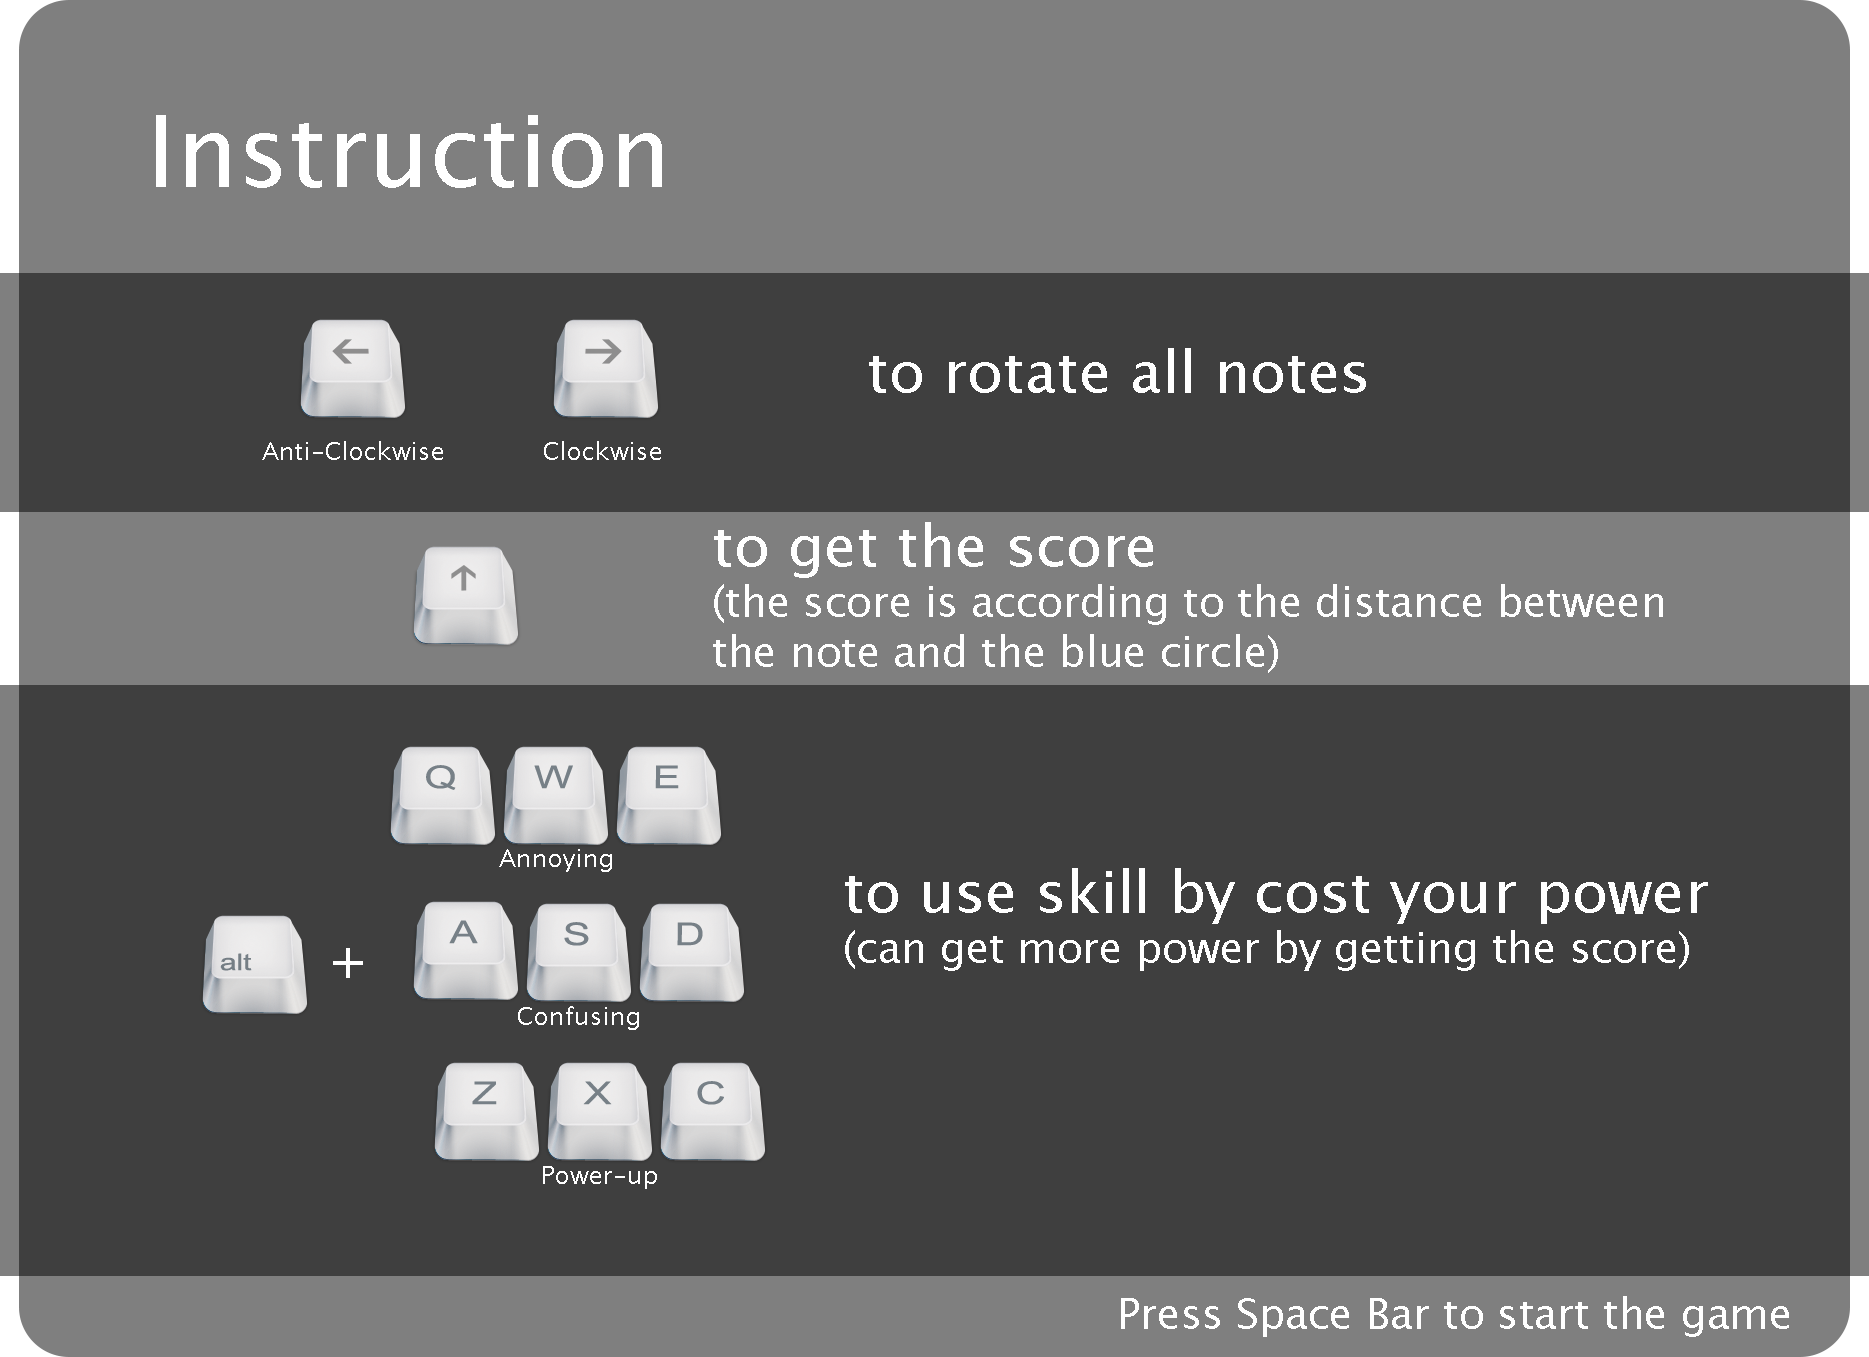
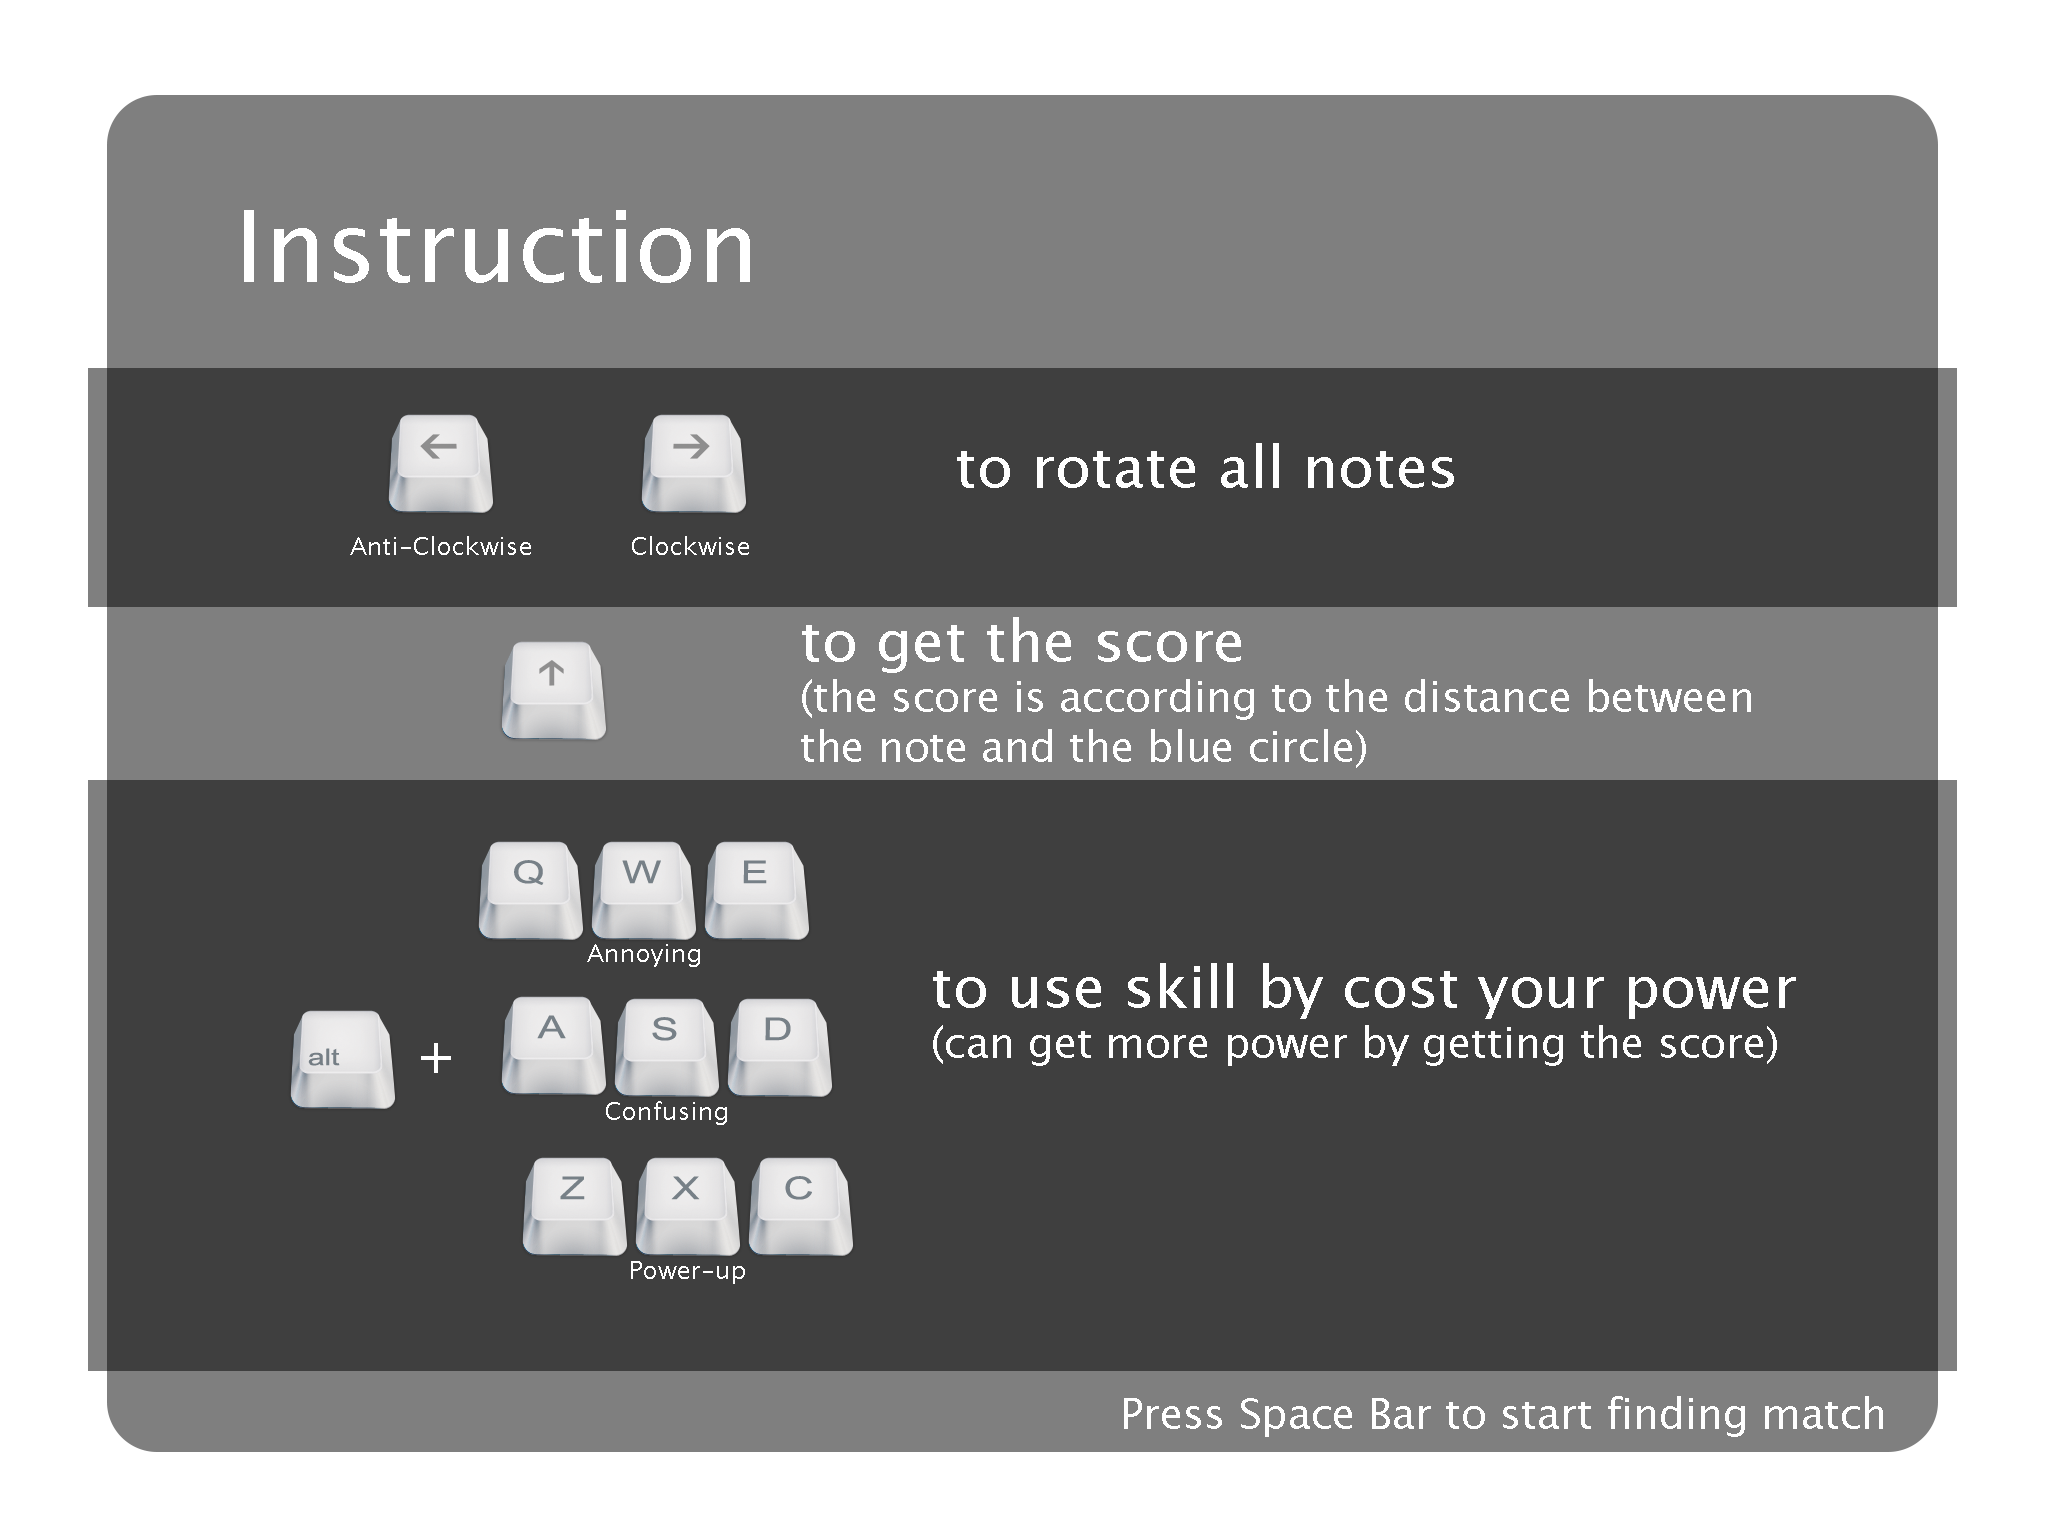
Done Multiplayer: Ready and remove log message in server

diff --git a/src/WaitingGameLayer.js b/src/WaitingGameLayer.js
@@ -3,6 +3,7 @@ var WaitingGameLayer = cc.LayerColor.extend({
         _this = this;
         this.layer = gameLayer;
         this.isInstruction = false;
+        this.isFinding = false;
         this._super();
     },
     socketIO: function() {
@@ -10,13 +11,12 @@ var WaitingGameLayer = cc.LayerColor.extend({
         this.enemy=null;
         this.IOupdate();
         this.socket.emit( 'regis' );
-        this.socket.emit( 'findMatch' );
     },
     IOupdate: function() {
         this.socket.on('startGame', function( oppID ) {
             console.log("Opponent ID: "+oppID);
             _this.enemy = oppID;
-            _this.onKeyDown( 32 );
+            _this.startTheMatch();
         });
     },
 
@@ -56,8 +56,27 @@ var WaitingGameLayer = cc.LayerColor.extend({
             this.unschedule( this.instructionHideAnimate );
         }
     },
+    findTheMatch: function() {
+        this.isFinding = true;
+        this.instructionShow.reset( "findMatch.png" );
+        this.schedule( this.delayToFinding,3,0,0 );
+    },
+    stopFinding: function() {
+        this.unschedule( this.delayToFinding );
+        this.isFinding = false;
+        this.instructionShow.reset( "instruction.png" );
+        this.socket.emit( 'stopFinding' );
+    },
+    delayToFinding: function() {
+        this.socket.emit( 'findMatch' );
+    },
+    startTheMatch: function() {
+        this.layer.playingLayer.startGame();
+    },
     onKeyDown: function( e ) {
-        if( ( e == 32 ) && ( this.isInstruction ) )
-            this.layer.playingLayer.startGame();
+        if( ( e == 32 ) && ( this.isInstruction ) && ( !this.isFinding ) )
+            this.findTheMatch();
+        else if( this.isFinding && ( e == 32 ) )
+            this.stopFinding();
     },
 });

diff --git a/server.js b/server.js
@@ -1,4 +1,6 @@
-var io = require('socket.io').listen(8080);
+var io = require('socket.io').listen(8080, {
+    log: 0,
+});
 var colors = require('colors');
 
 var clients = [];
@@ -21,23 +23,33 @@ io.sockets.on('connection', function(socket) {
         //io.sockets.socket(clients[0]).emit('test');
     });
     socket.on('findMatch', function() {
+        console.log(string.message+'Player finding match'.bold);
+        console.log(string.info+'ID : '.bold+this.id);
     	if( waiting == null )
     		waiting = this.id;
     	else {
+            console.log(string.message+'Match start'.bold);
+            console.log(string.info+'ID : '.bold+waiting);
+            console.log(string.info+'ID : '.bold+this.id);
 	    	io.sockets.socket(this.id).emit('startGame' , waiting);
 	    	io.sockets.socket(waiting).emit('startGame' , this.id);
+            waiting = null;
     	}
     });
+    socket.on('stopFinding', function() {
+        if( waiting == this.id ) {
+            console.log(string.message+'Player stop finding match'.bold);
+            console.log(string.info+'ID : '.bold+this.id);
+            waiting = null;
+        }
+    });
     socket.on('disconnect', function() {
-        var IDdisconnect = null;
         for( var i=0;i<clients.length;i++){
-        	if(clients[i].sessionID == this.id){
-                console.log(string.info+"Disconnect ID : ".bold.red+clients[i].sessionID);
-                IDdisconnect = clients[i].sessionID;
+        	if(clients[i] == this.id){
+                console.log(string.info+"Disconnect ID : ".bold.red+clients[i]);
     			clients.splice(i, 1);
     			break;
     		}
         }
-        socket.broadcast.emit('disconnect',IDdisconnect);
     });
 });  

diff --git a/src/ImageShow.js b/src/ImageShow.js
@@ -3,4 +3,8 @@ var ImageShow = cc.Sprite.extend({
         this._super();
         this.initWithFile( "images/"+name );
     },
+    reset: function( name ) {
+        this.initWithFile( "images/"+name );
+
+    },
 });

diff --git a/cocos2d.js b/cocos2d.js
@@ -56,6 +56,7 @@
             {src: 'images/powerBar.png'},
             {src: 'images/BI0.png'},
             {src: 'images/instruction.png'},
+            {src: 'images/findMatch.png'},
         ]
     };
 
